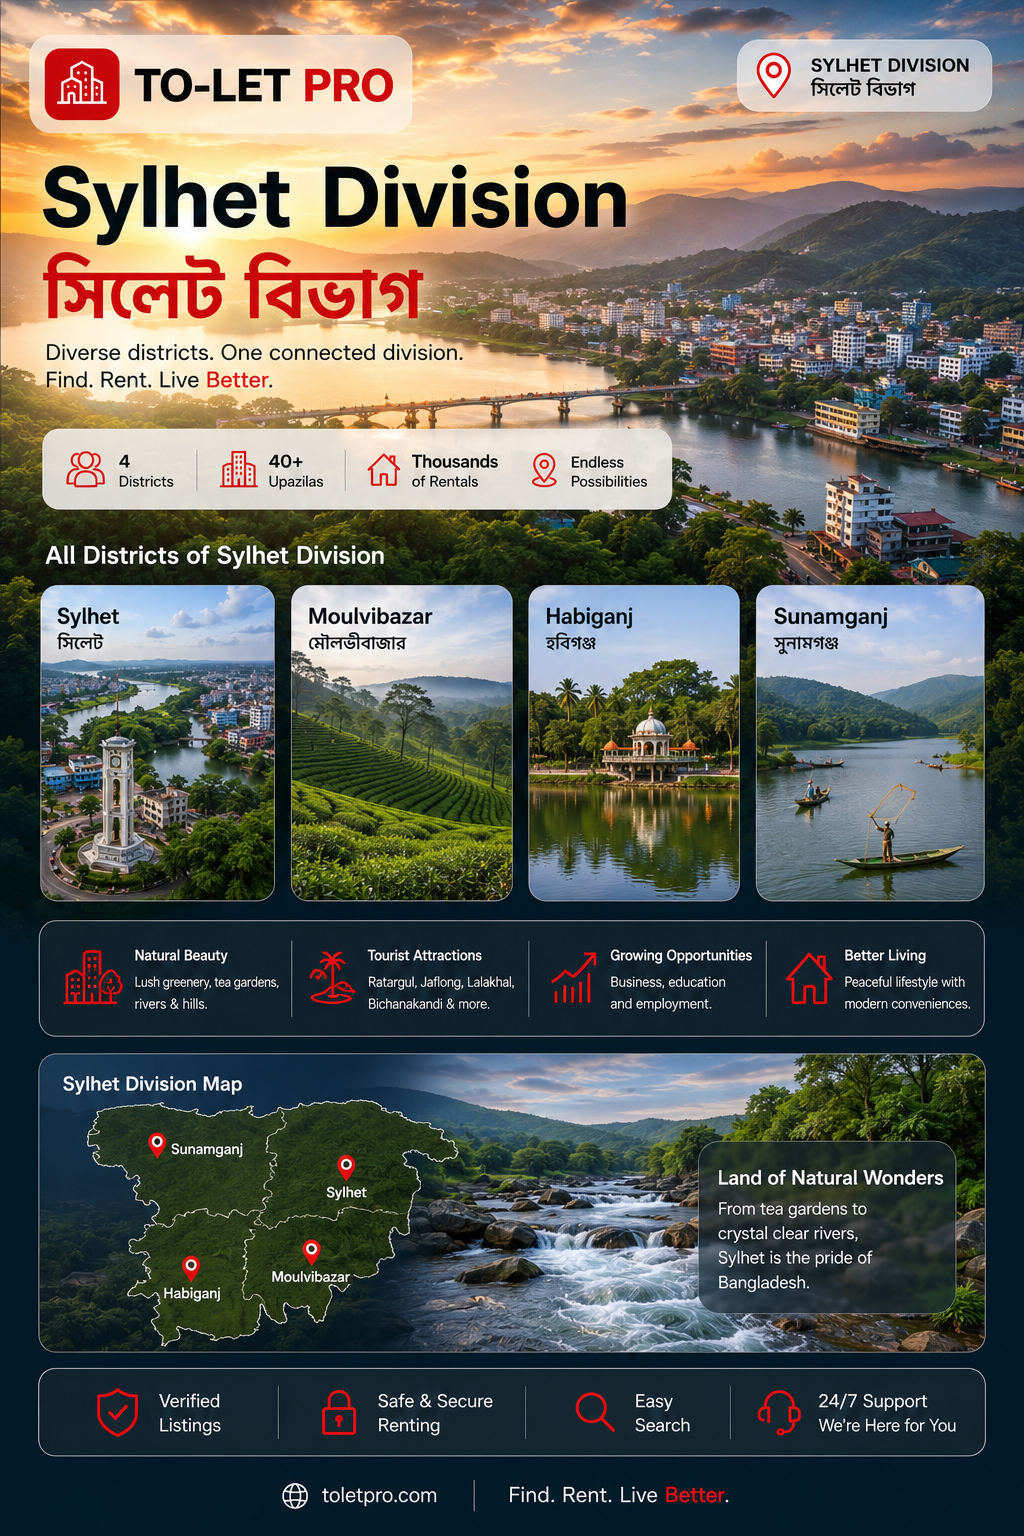
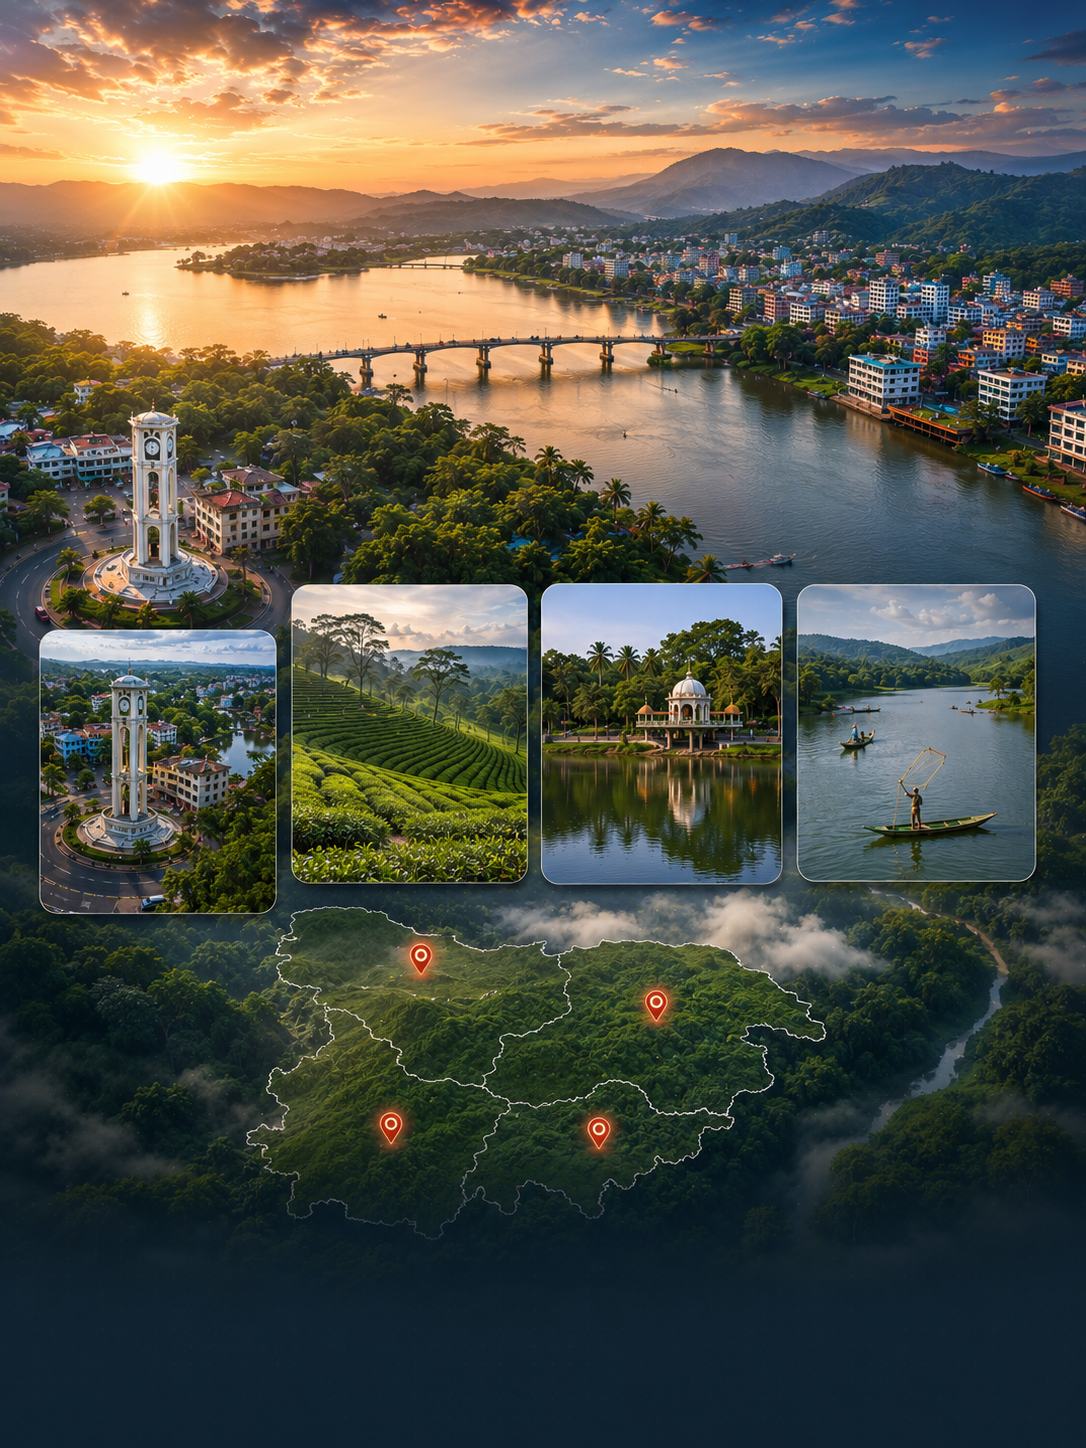
Update division image cache-busting to force reload of new high-res images

diff --git a/src/components/HeroSection.jsx b/src/components/HeroSection.jsx
@@ -13,10 +13,10 @@ import { DIVISIONS, POPULAR_AREAS, POPULAR_AREA_IMAGES, POPULAR_AREA_IMAGES_DESK
 // CONTEXT DATA
 // ─────────────────────────────────────────────────────────────────────────────
 const popularCities = [
-  { id: 'dhaka',      name: 'Dhaka',      desc: 'Central Hub',       image: '/image/Divition/Dhaka-Division.png' },
-  { id: 'chittagong', name: 'Chattogram', desc: 'Port City',         image: '/image/Divition/Chattogram.png' },
-  { id: 'sylhet',     name: 'Sylhet',     desc: 'Tea Gardens',       image: '/image/Divition/Sylhet-Division.png' },
-  { id: 'rajshahi',   name: 'Rajshahi',   desc: 'Silk City',         image: '/image/Divition/Rajshahi-Division.png' },
+  { id: 'dhaka',      name: 'Dhaka',      desc: 'Central Hub',       image: '/image/Divition/Dhaka-Division.png?v=3' },
+  { id: 'chittagong', name: 'Chattogram', desc: 'Port City',         image: '/image/Divition/Chattogram.png?v=3' },
+  { id: 'sylhet',     name: 'Sylhet',     desc: 'Tea Gardens',       image: '/image/Divition/Sylhet-Division.png?v=3' },
+  { id: 'rajshahi',   name: 'Rajshahi',   desc: 'Silk City',         image: '/image/Divition/Rajshahi-Division.png?v=3' },
   { id: 'khulna',     name: 'Khulna',     desc: 'Mangrove Forest',   image: 'https://images.unsplash.com/photo-1479839672679-a46483c0e7c8?w=800&q=80' },
   { id: 'barishal',   name: 'Barishal',   desc: 'City of Rivers',    image: 'https://images.unsplash.com/photo-1588600878108-578307a3cc9d?w=800&q=80' },
 ];

diff --git a/src/data/searchData.js b/src/data/searchData.js
@@ -23,16 +23,16 @@
 // Used by the mobile "Explore Divisions" strip and the Navbar drawer.
 export const DIVISIONS = [
   { id: 'dhaka',      name: 'Dhaka',      tagline: 'Capital',     hot: true,
-    image: '/image/Divition/Dhaka-Division.png',
+    image: '/image/Divition/Dhaka-Division.png?v=3',
     districts: ['Dhaka','Faridpur','Gazipur','Gopalganj','Kishoreganj','Madaripur','Manikganj','Munshiganj','Narayanganj','Narsingdi','Rajbari','Shariatpur','Tangail'] },
   { id: 'chittagong', name: 'Chattogram', tagline: 'Port City',
-    image: '/image/Divition/Chattogram.png',
+    image: '/image/Divition/Chattogram.png?v=3',
     districts: ['Chattogram','Bandarban','Brahmanbaria','Chandpur','Comilla',"Cox's Bazar",'Feni','Khagrachari','Lakshmipur','Noakhali','Rangamati'] },
   { id: 'sylhet',     name: 'Sylhet',     tagline: 'Tea Gardens',
-    image: '/image/Divition/Sylhet-Division.png',
+    image: '/image/Divition/Sylhet-Division.png?v=3',
     districts: ['Sylhet','Habiganj','Moulvibazar','Sunamganj'] },
   { id: 'rajshahi',   name: 'Rajshahi',   tagline: 'Silk City',
-    image: '/image/Divition/Rajshahi-Division.png',
+    image: '/image/Divition/Rajshahi-Division.png?v=3',
     districts: ['Rajshahi','Bogura','Chapainawabganj','Joypurhat','Naogaon','Natore','Pabna','Sirajganj'] },
   { id: 'khulna',     name: 'Khulna',     tagline: 'Mangrove',
     image: 'https://images.unsplash.com/photo-1479839672679-a46483c0e7c8?w=900&q=80',